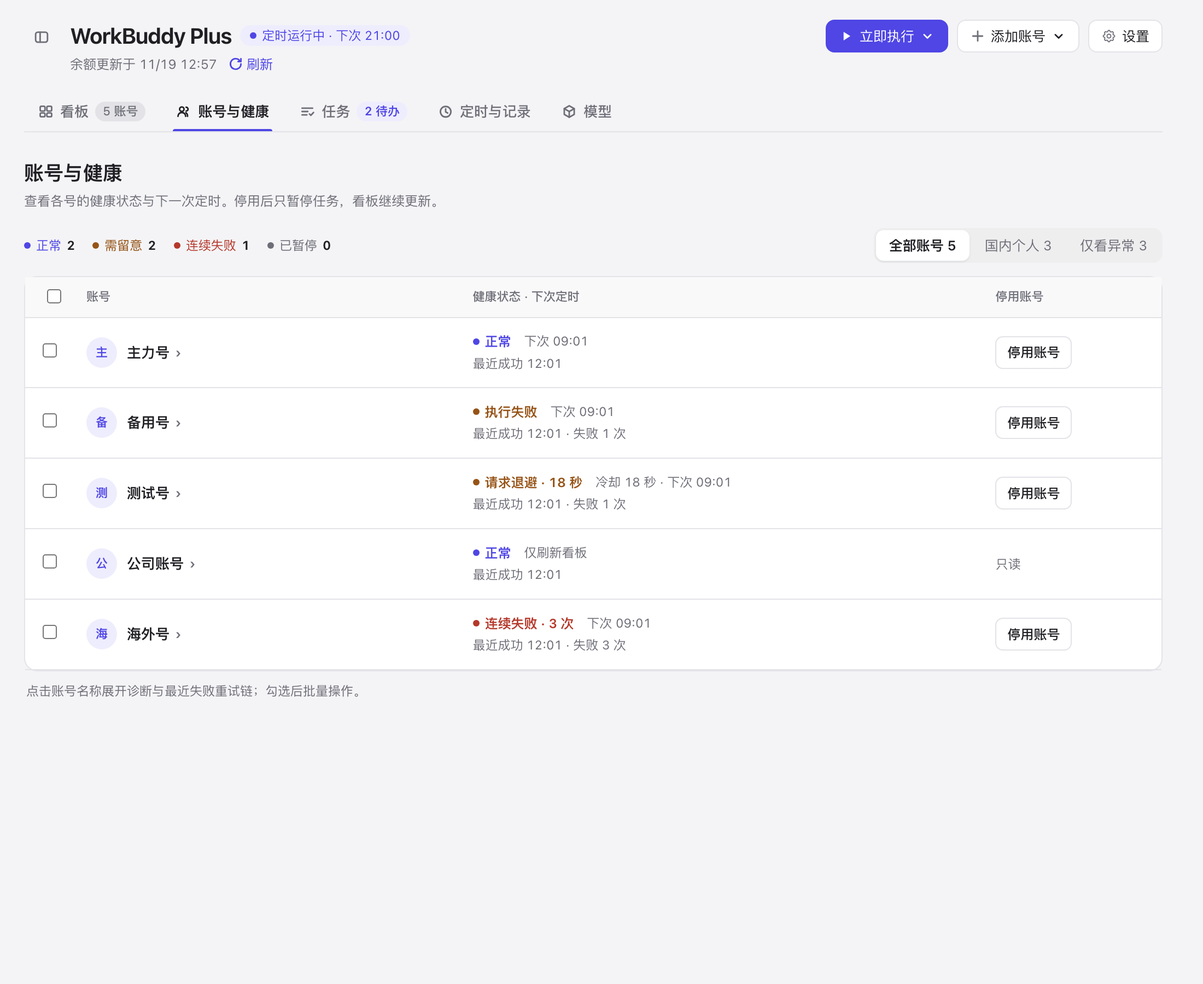
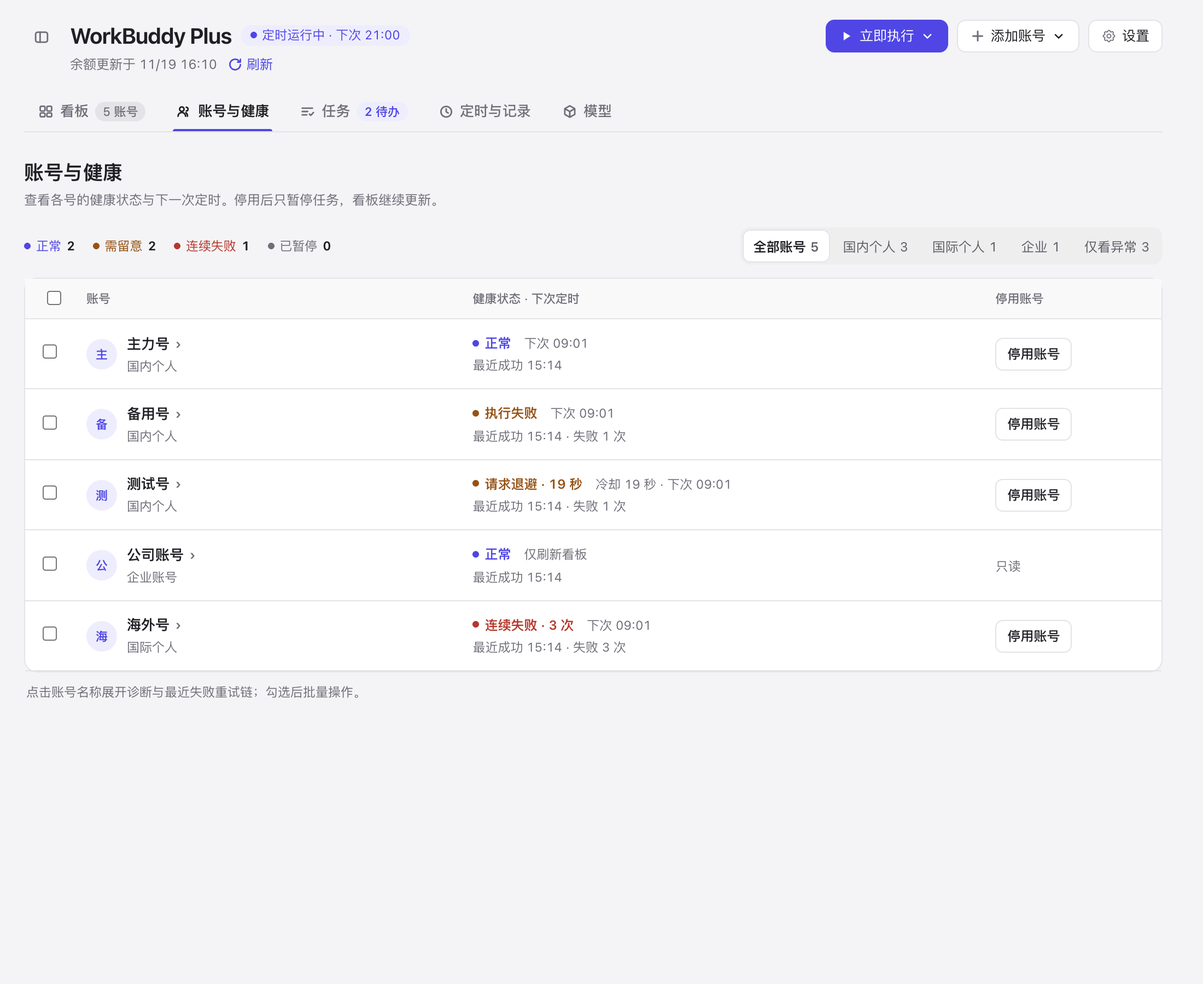
Release v0.7.7: add international and enterprise account filters

diff --git a/page/board.js b/page/board.js
@@ -575,12 +575,19 @@
 
   // Accounts: a health and task matrix. Login renewal stays in Magpie.
   const accountSelection = new Set(), accountExpanded = new Set();
+  const accountScopes = {
+    all: ["全部账号", "全部", "暂无账号"],
+    domestic: ["国内个人", "国内", "暂无国内个人账号"],
+    international: ["国际个人", "国际", "暂无国际个人账号"],
+    enterprise: ["企业", "企业", "暂无企业账号"],
+    abnormal: ["仅看异常", "异常", "暂无异常账号"]
+  };
   let accountScope = "all";
   const accountHealthLabels = { normal: "正常", disabled: "已停用", paused: "任务已暂停", expired: "登录已过期", restricted: "账号受限", limited: "请求退避", quota: "模型额度用完", failed: "连续失败", attention: "执行失败" };
   const accountHealthGroup = state => state === "normal" ? "normal" : ["paused", "disabled"].includes(state) ? "paused" : state === "failed" ? "failed" : "attention";
   const accountHealthTone = state => state === "normal" ? "ok" : ["failed", "expired"].includes(state) ? "urgent" : ["paused", "disabled"].includes(state) ? "neutral" : "warn";
   const accountState = (a, now) => a.health?.state || (a.enabled === false ? "disabled" : a.paused ? "paused" : a.expires && a.expires <= now ? "expired" : "normal");
-  const accountScopeRows = (rows, now) => rows.filter(a => accountScope === "domestic" ? !a.enterprise && !abroad(a) : accountScope === "abnormal" ? accountHealthGroup(accountState(a, now)) !== "normal" : true);
+  const accountKind = a => a.enterprise ? "enterprise" : abroad(a) ? "international" : "domestic";
 
   function accountNextExpiry(a, now) {
     const lots = [];
@@ -603,21 +610,42 @@
     introText.append(el("h2", undefined, "账号与健康"), el("p", "wb-sub", "查看各号的健康状态与下一次定时。停用后只暂停任务，看板继续更新。"));
     intro.append(introText);
 
-    const states = rows.map(a => accountState(a, now));
+    const byScope = { all: rows, domestic: [], international: [], enterprise: [], abnormal: [] };
+    const healthCounts = { normal: 0, attention: 0, failed: 0, paused: 0 };
+    for (const a of rows) {
+      const group = accountHealthGroup(accountState(a, now));
+      healthCounts[group]++;
+      byScope[accountKind(a)].push(a);
+      if (group !== "normal") byScope.abnormal.push(a);
+    }
     const summary = el("div", "wb-account-summary");
     for (const [key, label] of [["normal", "正常"], ["attention", "需留意"], ["failed", "连续失败"], ["paused", "已暂停"]]) {
-      const count = states.filter(state => accountHealthGroup(state) === key).length, item = el("span", `wb-account-summary-item ${key === "normal" ? "ok" : key === "failed" ? "urgent" : key === "paused" ? "neutral" : "warn"}`);
+      const count = healthCounts[key], item = el("span", `wb-account-summary-item ${key === "normal" ? "ok" : key === "failed" ? "urgent" : key === "paused" ? "neutral" : "warn"}`);
       item.dataset.count = String(count);
       item.append(el("i", "wb-account-status-dot"), label, el("strong", undefined, String(count)));
       summary.append(item);
     }
-    const scopeOptions = [
-      ["all", `全部账号 ${rows.length}`],
-      ["domestic", `国内个人 ${rows.filter(a => !a.enterprise && !abroad(a)).length}`],
-      ["abnormal", `仅看异常 ${rows.filter(a => accountHealthGroup(accountState(a, now)) !== "normal").length}`]
-    ];
+    const scopes = el("div", "wb-segs wb-account-scopes");
+    scopes.setAttribute("role", "radiogroup");
+    scopes.setAttribute("aria-label", "账号范围");
+    for (const [key, [full, short]] of Object.entries(accountScopes)) {
+      const option = el("label"), input = el("input", "wb-account-scope-input"), face = el("span", "wb-seg-btn");
+      const count = byScope[key].length;
+      input.type = "radio";
+      input.name = "wb-account-scope";
+      input.id = `wb-account-scope-${key}`;
+      input.dataset.accountScope = key;
+      input.checked = key === accountScope;
+      input.setAttribute("aria-label", `${full} ${count} 个账号`);
+      input.setAttribute("aria-controls", "wb-account-results");
+      input.onchange = () => { accountScope = key; render(layout.host, view); };
+      face.setAttribute("aria-hidden", "true");
+      face.append(el("span", "wb-account-scope-full", full), el("span", "wb-account-scope-short", short), el("span", "wb-account-scope-count", String(count)));
+      option.append(input, face);
+      scopes.append(option);
+    }
     const toolbar = el("div", "wb-account-toolbar");
-    toolbar.append(summary, segs(scopeOptions, accountScope, value => { accountScope = value; again(); }, "账号范围", null, "accountScope"));
+    toolbar.append(summary, scopes);
     box.append(intro, toolbar);
 
     const selectedIds = [...accountSelection].filter(id => rows.some(a => a.id === id && a.enabled !== false));
@@ -636,7 +664,7 @@
     for (const title of ["账号", "健康状态 · 下次定时", "停用账号"]) headRow.append(el("th", undefined, title));
     head.append(headRow);
 
-    const visibleRows = accountScopeRows(rows, now);
+    const visibleRows = byScope[accountScope];
     selectAll.checked = visibleRows.length > 0 && visibleRows.every(a => accountSelection.has(a.id));
     selectAll.indeterminate = visibleRows.some(a => accountSelection.has(a.id)) && !selectAll.checked;
     selectAll.onchange = () => { for (const a of visibleRows) selectAll.checked ? accountSelection.add(a.id) : accountSelection.delete(a.id); again(); };
@@ -662,7 +690,7 @@
       toggle.setAttribute("aria-controls", detailId);
       toggle.append(el("span", "wb-account-name", a.name), el("i", undefined, "›"));
       toggle.onclick = () => { accountExpanded.has(a.id) ? accountExpanded.delete(a.id) : accountExpanded.add(a.id); again(); };
-      info.append(toggle);
+      info.append(toggle, el("span", "wb-account-cell-meta", a.enterprise ? "企业账号" : accountScopes[accountKind(a)][0]));
       account.append(avatar, info); who.append(account);
 
       const healthCell = el("td", "wb-account-health-cell"), status = el("span", `wb-account-status ${healthTone}`);
@@ -721,8 +749,15 @@
       }
       inner.append(diagnostic); disclosure.append(inner); detailCell.append(disclosure); detailRow.append(detailCell); body.append(detailRow);
     }
-    table.append(head, body); wrap.append(table); box.append(wrap);
-    box.append(el("p", "wb-account-hint", "点击账号名称展开诊断与最近失败重试链；勾选后批量操作。"), feedback);
+    const results = el("div");
+    results.id = "wb-account-results";
+    if (visibleRows.length) {
+      table.append(head, body); wrap.append(table);
+      results.append(wrap, el("p", "wb-account-hint", "点击账号名称展开诊断与最近失败重试链；勾选后批量操作。"));
+    } else {
+      results.append(el("p", "wb-account-empty", accountScopes[accountScope][2]));
+    }
+    box.append(results, feedback);
 
     const batch = el("div", "wb-account-batch"), refreshBatch = workButton("刷新余额", () => {
       if (!hooks.onRunAction) throw new Error("当前页面不支持刷新余额");
@@ -1916,6 +1951,7 @@
         button.setAttribute("aria-label", [button.title, badge.textContent].filter(Boolean).join(" "));
       }
     }
+    const focusedScope = document.activeElement?.dataset.accountScope;
     let body;
     if (tab === "accounts") body = accountsView(rows, view, now);
     else if (tab === "tasks") body = tasksView(rows, now);
@@ -1925,6 +1961,7 @@
 
     if (switched) { body.className = `${body.className || ""} wb-enter`.trim(); switched = false; }
     content.replaceChildren(body);
+    if (tab === "accounts" && focusedScope) document.getElementById(`wb-account-scope-${focusedScope}`).focus({ preventScroll: true });
   }
 
   let openPick = null, listening = false;

diff --git a/page/board.css b/page/board.css
@@ -313,6 +313,18 @@ body.in-settings button.wb-nav-toggle{display:none}
 .wb-accounts-intro h2{font-size:16px;font-weight:650;margin:0}
 .wb-accounts-intro p{margin:3px 0 0;line-height:1.5}
 .wb-account-toolbar{display:flex;align-items:center;justify-content:space-between;gap:12px;flex-wrap:wrap;margin-bottom:10px}
+.wb-accounts-intro .wb-sub{text-wrap:pretty}
+.wb-account-scopes{--wb-scope-ink:color-mix(in srgb,var(--wb-muted) 78%,var(--magpie-fg,currentColor));flex:none;overflow:visible}
+.wb-account-scopes label{position:relative;min-width:0}
+.wb-account-scope-input{position:absolute;width:1px;height:1px;clip-path:inset(50%);margin:0}
+.wb-account-toolbar .wb-account-scopes .wb-seg-btn{display:flex;justify-content:center;min-height:30px;padding:2px 10px;gap:4px;color:var(--wb-scope-ink);font-size:12px;font-variant-numeric:tabular-nums}
+.wb-account-scope-input:checked+.wb-seg-btn{background:var(--wb-card);color:var(--magpie-fg,inherit);font-weight:600;box-shadow:inset 0 0 0 1px var(--wb-line)}
+.wb-account-scope-input:focus-visible+.wb-seg-btn{outline:2px solid var(--wb-accent);outline-offset:-2px}
+@media(hover:hover){.wb-account-scope-input:not(:checked)+.wb-seg-btn:hover{background:var(--wb-hover)}}
+.wb-account-scope-input+.wb-seg-btn:active{background:var(--wb-soft)}
+.wb-account-scope-count{color:var(--wb-scope-ink)}
+.wb-account-scope-short{display:none}
+.wb-account-empty{margin:0;padding:24px 16px;border:1px solid var(--wb-line);border-radius:12px;background:var(--wb-card);color:var(--wb-muted);text-align:center}
 .wb-account-summary{display:flex;align-items:center;gap:14px;flex-wrap:wrap;font-size:11.5px;color:var(--wb-muted);font-variant-numeric:tabular-nums}
 .wb-account-summary-item,.wb-account-status{display:inline-flex;align-items:center;gap:5px;color:var(--wb-muted)}
 .wb-account-summary-item strong{font-weight:650;color:var(--magpie-fg,inherit)}
@@ -401,8 +413,10 @@ body.in-settings button.wb-nav-toggle{display:none}
 @container wb-page (max-width:600px){
   .wb-account-toolbar{align-items:flex-start}
   .wb-account-summary{gap:8px 14px}
-  .wb-account-toolbar .wb-segs{width:100%}
-  .wb-account-toolbar .wb-seg-btn{flex:1;justify-content:center;padding-inline:5px}
+  .wb-account-toolbar .wb-account-scopes{display:grid;grid-template-columns:repeat(5,minmax(0,1fr));width:100%}
+  .wb-account-toolbar .wb-account-scopes .wb-seg-btn{min-height:44px;padding-inline:2px;gap:3px}
+  .wb-account-scope-full{display:none}
+  .wb-account-scope-short{display:inline}
   .wb-account-batch{bottom:14px}
   .wb-account-main-row{grid-template-columns:34px minmax(0,1fr);gap:10px 12px}
   .wb-account-main-row td:nth-child(4){grid-column:1/-1;grid-row:2;justify-self:start;padding-top:4px}
@@ -412,6 +426,7 @@ body.in-settings button.wb-nav-toggle{display:none}
 @media(prefers-reduced-motion:reduce){.wb-account-toggle i,.wb-account-disclosure,.wb-account-batch{transition:none}.wb-account-batch-button:active{transform:none}}
 @media(prefers-reduced-transparency:reduce){.wb-account-batch{background:var(--wb-card);backdrop-filter:none}}
 @media(prefers-contrast:more){.wb-account-table-wrap,.wb-account-batch{border-color:var(--magpie-fg,currentColor)}}
+@media(prefers-contrast:more){.wb-account-scopes,.wb-account-scope-input:checked+.wb-seg-btn{box-shadow:inset 0 0 0 1px var(--wb-scope-ink)}}
 
 /* Model quota card at the foot of the board */
 .wb-quota{margin-top:18px;padding-top:14px;border-top:1px solid var(--wb-line)}

diff --git a/README.en.md b/README.en.md
@@ -43,7 +43,7 @@ The plugin's page in Magpie's light and dark theme; every account and figure is 
     <td width="50%"><img src="docs/images/tasks.png" alt="Tasks view"><br><sub><b>Tasks</b>: growth tasks and progress by account in natural-height columns, with travel + Buddy blind boxes and compensation + campaigns in two rows below; account cards and extras drag to reorder</sub></td>
   </tr>
   <tr>
-    <td colspan="2"><img src="docs/images/accounts.png" alt="Accounts and health" width="88%"><br><sub><b>Accounts & health</b>: a full-width table for account, health and next schedule, and pause controls; expand for failure diagnostics, with three equal-width batch actions when selected</sub></td>
+    <td colspan="2"><img src="docs/images/accounts.png" alt="Accounts and health" width="88%"><br><sub><b>Accounts & health</b>: filter all, China personal, WorkBuddy AI personal, enterprise or abnormal accounts; expand for failure diagnostics, with three equal-width batch actions when selected</sub></td>
   </tr>
   <tr>
     <td width="50%"><img src="docs/images/rings.png" alt="Rings view"><br><sub><b>Rings</b>: each account's activity, travel and task rings; open one for its credit lapse timeline and usage</sub></td>
@@ -128,7 +128,7 @@ flowchart LR
 | --- | --- |
 | **Automatic tasks** | China runs activity, growth tasks, campaigns, claim-only sweeps, Buddy travel and streak rewards; official compensation is queried before claiming; new expert tasks are recognised from their `jump_url`. WorkBuddy AI runs activity, check-in and the web session. Each side keeps its own schedule and retries failures. |
 | **What to do first** | The Tasks view lists growth tasks and progress by account in natural-height columns, with automatic tasks ready to run; short cards keep their own height. Below it, four cards handle travel, Buddy blind boxes, official compensation and campaigns account by account. Account cards and the four extras drag to reorder, remembered on this machine. |
-| **Board, tasks and account health** | The board has five read-only views refreshed every 3 minutes. The Tasks page lists growth tasks by account in natural-height columns (short cards do not stretch), with filters and account/status grouping; account cards and the four extra cards drag to reorder (Alt+arrows too), remembered on this machine, and handle travel, Buddy blind boxes, official compensation and campaigns account by account. Accounts & health filters account status and shows health, next schedule, pause controls and failure retry chains. Check-in, growth and travel stay on the board, and exhausted or queued models get a model-quota card at the foot of the board. |
+| **Board, tasks and account health** | The board has five read-only views refreshed every 3 minutes. The Tasks page lists growth tasks by account in natural-height columns (short cards do not stretch), with filters and account/status grouping; account cards and the four extra cards drag to reorder (Alt+arrows too), remembered on this machine, and handle travel, Buddy blind boxes, official compensation and campaigns account by account. Accounts & health filters by account type or abnormal status and shows health, next schedule, pause controls and failure retry chains. Check-in, growth and travel stay on the board, and exhausted or queued models get a model-quota card at the foot of the board. |
 | **Entry points** | Magpie sidebar, local panel `127.0.0.1:3439`, CLI and MCP; settings split into Schedule, WorkBuddy AI, Tasks, and Network & time zone. |
 | **Guardrails** | Three days of format failures pause reporting; three network errors pause for 10 minutes; post-sleep catch-up and restart dedupe. Manual runs always work. |
 
@@ -251,7 +251,7 @@ The “定时与记录” page keeps Today's Schedule at the top. Below it, swit
 - **Retries**: expand a record for actual request times, HTTP statuses and waits. Without `Retry-After`, HTTP 429 waits 5 seconds, then 20 seconds, for at most three requests. Scheduled retries wait at least 15 minutes, for at most three rounds. Manual Retry targets only failed accounts/actions. Stop also cancels queued work.
 - **Log channels**: Task, Conversation and System, with a failure filter. Conversation logs contain outcomes, never prompts. Older records remain readable; missing historical retry details are never invented.
 - **Cache**: `tasksCacheTtl` defaults to 20 seconds (0–120), isolated by account, site and client channel and invalidated after accepts, reports or claims. `progressCacheHours` defaults to 6 hours (0–24); only failed reads use this persisted display snapshot, marked with its timestamp and the read error. Execution never uses that snapshot. Set either to 0 to disable it.
-- **Accounts & health**: filter all accounts, domestic personal accounts or abnormal states. A full-width three-column table shows the account, health and next schedule, and pause controls; last success, consecutive failures and request cooldown sit under health. Expand an account for diagnostics, its recent failure retry chain and a direct failed-operation retry. Each account can pause or resume tasks. Selection raises exactly three equal-width actions in one row: Refresh balance, Pause account tasks and Clear selection. Check-in, growth and travel stay on the board, and Magpie still owns sign-in and renewal.
+- **Accounts & health**: switch between all accounts, China personal, WorkBuddy AI personal, enterprise, and abnormal accounts. Each filter shows a count, and each account name has its type underneath. The abnormal filter includes paused accounts. A full-width three-column table shows the account, health and next schedule, and pause controls; last success, consecutive failures and request cooldown sit under health. Expand an account for diagnostics, its recent failure retry chain and a direct failed-operation retry. Each account can pause or resume tasks. Selection raises exactly three equal-width actions in one row: Refresh balance, Pause account tasks and Clear selection. Check-in, growth and travel stay on the board, and Magpie still owns sign-in and renewal.
 
 The Tasks page's compensation panel supports individual and bulk claims, always queries first, marks deadlines within 48 hours red and adds a footer reminder. Query failures remain separate from “no compensation.” “Run all” and the Buddy panel's “Open all” use primary buttons; the claim-only sweep stays secondary. When no boxes are available the header stays as a disabled “Open all” without a number and each row shows a disabled “Open blind box” and “no boxes to open”; when nothing is claimable the bulk and per-account claim buttons stay visible but disabled, while failed rows keep “Re-query”. The Buddy panel shows available boxes per account; manual opening spends energy. `buddyAuto` is off by default. When enabled, idle/returned trips open boxes, re-read travel state and then depart. China's read-only check-in comparison uses the newer same-day observation from upstream or Magpie; yesterday's or undated snapshots cannot count as today's check-in. Buddy check-in and growth-plan streaks are shown separately.
 
@@ -292,6 +292,8 @@ The service listens on `127.0.0.1` only. A default HTTP proxy and a WorkBuddy AI
 
 ## Updating and stopping
 
+Update to v0.7.7 to filter WorkBuddy AI personal and enterprise accounts in Accounts & health.
+
 Installed from Magpie: run `magpie plugin update`. If you installed a pinned version (`magpie plugin list` shows a suffix like `#v0.4.0`), remove it with `magpie plugin rm` and `magpie plugin add` the unpinned address again; plugin options such as the port need setting again. From 0.5.5 on, when Magpie loads the updated plugin it finds the older service, asks it to exit and starts the new version, so no restart is needed (with a job running it waits for it, asking again each minute). Coming from 0.5.4 or earlier, the old service doesn't know that request yet: end it one last time (or log out, restart, or restart the container).
 
 The macOS background install: update the source folder and install again; settings and history are kept.
@@ -323,7 +325,7 @@ No npm dependencies to install. Tests use mock accounts and a mock upstream, and
 npm test
 ```
 
-The tests cover China and WorkBuddy AI account selection, official compensation queried before claiming (no campaign/already claimed never claim, a failed query stays an error), blind-box quota and the single-open cap, travel-time blind-box opening off by default, the per-account task list, filters/grouping, account and card reordering, zero-state disabled buttons without a “0” count, travel/campaign cards and compensation/Blind-box panels on the Tasks page, personal-versus-enterprise credit separation, manual todo counts, pill-switch persistence, the three-column Accounts & health table, filters, diagnostic retry chains and three equal-width batch actions, dynamic expert `jump_url` parsing, the later of upstream and Magpie check-in records, each build's own schedule switch and times (with settings from older versions), the claim-only sweep (accepting pending tasks, claiming reached growth-task and campaign rewards, and sending no behavior event), the task center's cross-account scan and single-task run, the event shapes and claims of mini-program `Sequential_Tasks_4` to `7`, the campaign App cloud conversation and rejection of an untrusted boxUrl, the web conversation's model choice and fallback, WorkBuddy AI tasks and check-in, credentials kept out of status replies, run-all never calling the daily check-in, growth task progress, travel rewards, package merging and lapse dates, task categories, usage paging and deductions, campaign task reads, execution and claims (only what is ready, 12304 is not a failure), the campaign App conversation off by default and the explicit opt-in, campaign status on the board and manual-item alerts, the minute-01 schedule defaults with custom times left alone, skill-share channels and their daily reuse, the automatic-share switch and single-task override, the three-day format-failure pause and its manual release, network failures stopping a round, consecutive network failures pausing scheduled runs until a manual success, the daily pause after an upstream restriction, model limits and queues (reset parsing, queue detection and display from real 429s), the service handoff after an update, settings saved from Magpie's page, WorkBuddy AI's web conversation and daily reward, board snapshots without credentials, page request de-duplication, rate-limit retries, the add-account flow, read-only sign-ins and migration of old renewal slots, schedule de-duplication, the panel and the local HTTP boundary, the model catalog, and the service port.
+The tests cover China and WorkBuddy AI account selection, official compensation queried before claiming (no campaign/already claimed never claim, a failed query stays an error), blind-box quota and the single-open cap, travel-time blind-box opening off by default, the per-account task list, filters/grouping, account and card reordering, zero-state disabled buttons without a “0” count, travel/campaign cards and compensation/Blind-box panels on the Tasks page, personal-versus-enterprise credit separation, manual todo counts, pill-switch persistence, the three-column Accounts & health table, WorkBuddy AI personal and enterprise filters, diagnostic retry chains and three equal-width batch actions, dynamic expert `jump_url` parsing, the later of upstream and Magpie check-in records, each build's own schedule switch and times (with settings from older versions), the claim-only sweep (accepting pending tasks, claiming reached growth-task and campaign rewards, and sending no behavior event), the task center's cross-account scan and single-task run, the event shapes and claims of mini-program `Sequential_Tasks_4` to `7`, the campaign App cloud conversation and rejection of an untrusted boxUrl, the web conversation's model choice and fallback, WorkBuddy AI tasks and check-in, credentials kept out of status replies, run-all never calling the daily check-in, growth task progress, travel rewards, package merging and lapse dates, task categories, usage paging and deductions, campaign task reads, execution and claims (only what is ready, 12304 is not a failure), the campaign App conversation off by default and the explicit opt-in, campaign status on the board and manual-item alerts, the minute-01 schedule defaults with custom times left alone, skill-share channels and their daily reuse, the automatic-share switch and single-task override, the three-day format-failure pause and its manual release, network failures stopping a round, consecutive network failures pausing scheduled runs until a manual success, the daily pause after an upstream restriction, model limits and queues (reset parsing, queue detection and display from real 429s), the service handoff after an update, settings saved from Magpie's page, WorkBuddy AI's web conversation and daily reward, board snapshots without credentials, page request de-duplication, rate-limit retries, the add-account flow, read-only sign-ins and migration of old renewal slots, schedule de-duplication, the panel and the local HTTP boundary, the model catalog, and the service port.
 
 The README screenshots come from `sh docs/screenshots.sh`: `docs/demo-data.mjs` writes made-up accounts and headless Chrome renders the page in Magpie's theme.
 

diff --git a/DESIGN.md b/DESIGN.md
@@ -112,6 +112,7 @@ Magpie 宿主注入 (--magpie-*) ──▶ 面板降级定义 (public/style.css)
 - **渐进披露（Progressive Disclosure）**：
   - 账号列表默认收起（`aria-expanded="false"`），一行展示头像、名称/身份、可用积分条（按批次作废紧迫度分段着色）、今日三环与 7 天折线；点击展开双栏详情（积分批次、成长/活动/猫猫、近 7 天扣分明细）。
   - 「账号与健康」使用铺满内容区的三列表格，仅保留账号、健康状态与下次定时、停用账号；签到、加油站、成长、福利和旅行状态只在看板展示。点击账号名称原位展开积分、失败次数与最近失败重试链，不另套卡片；勾选后底部操作栏固定为「刷新余额 / 暂停账号任务 / 取消选择」三个等宽按钮并保持单行。窄窗口改为完整账号卡片，不产生横向滚动。
+  - 账号筛选在表格上方并列显示「全部账号 / 国内个人 / 国际个人 / 企业 / 仅看异常」和各自数量，选中态以卡片底色区分。窄栏使用短标签，五项等宽排成一行。账号名称下用次级文字显示类型，切换筛选时保留键盘焦点并即时更新列表。
   - 执行记录默认仅展开运行中（`running`）任务，已完成/失败任务默认折叠。
   - 底部提醒区（`.wb-alert-footer`）平时收成一行摘要，只有存在高优提醒时才以圆点标记色温和提示，「其他提醒」默认折叠。
 - **数据可视化节制**：仅用纯粹的几何视觉传达真实进度——Apple 风格同心三环（`.wb-rings`：活跃 / 旅行 / 任务）、分段有效期条（`.wb-meter`）、极简 7 天小柱图/折线（`.wb-spark` / `.wb-chart`）、时间轴作废点图（`.wb-timeline`）。
